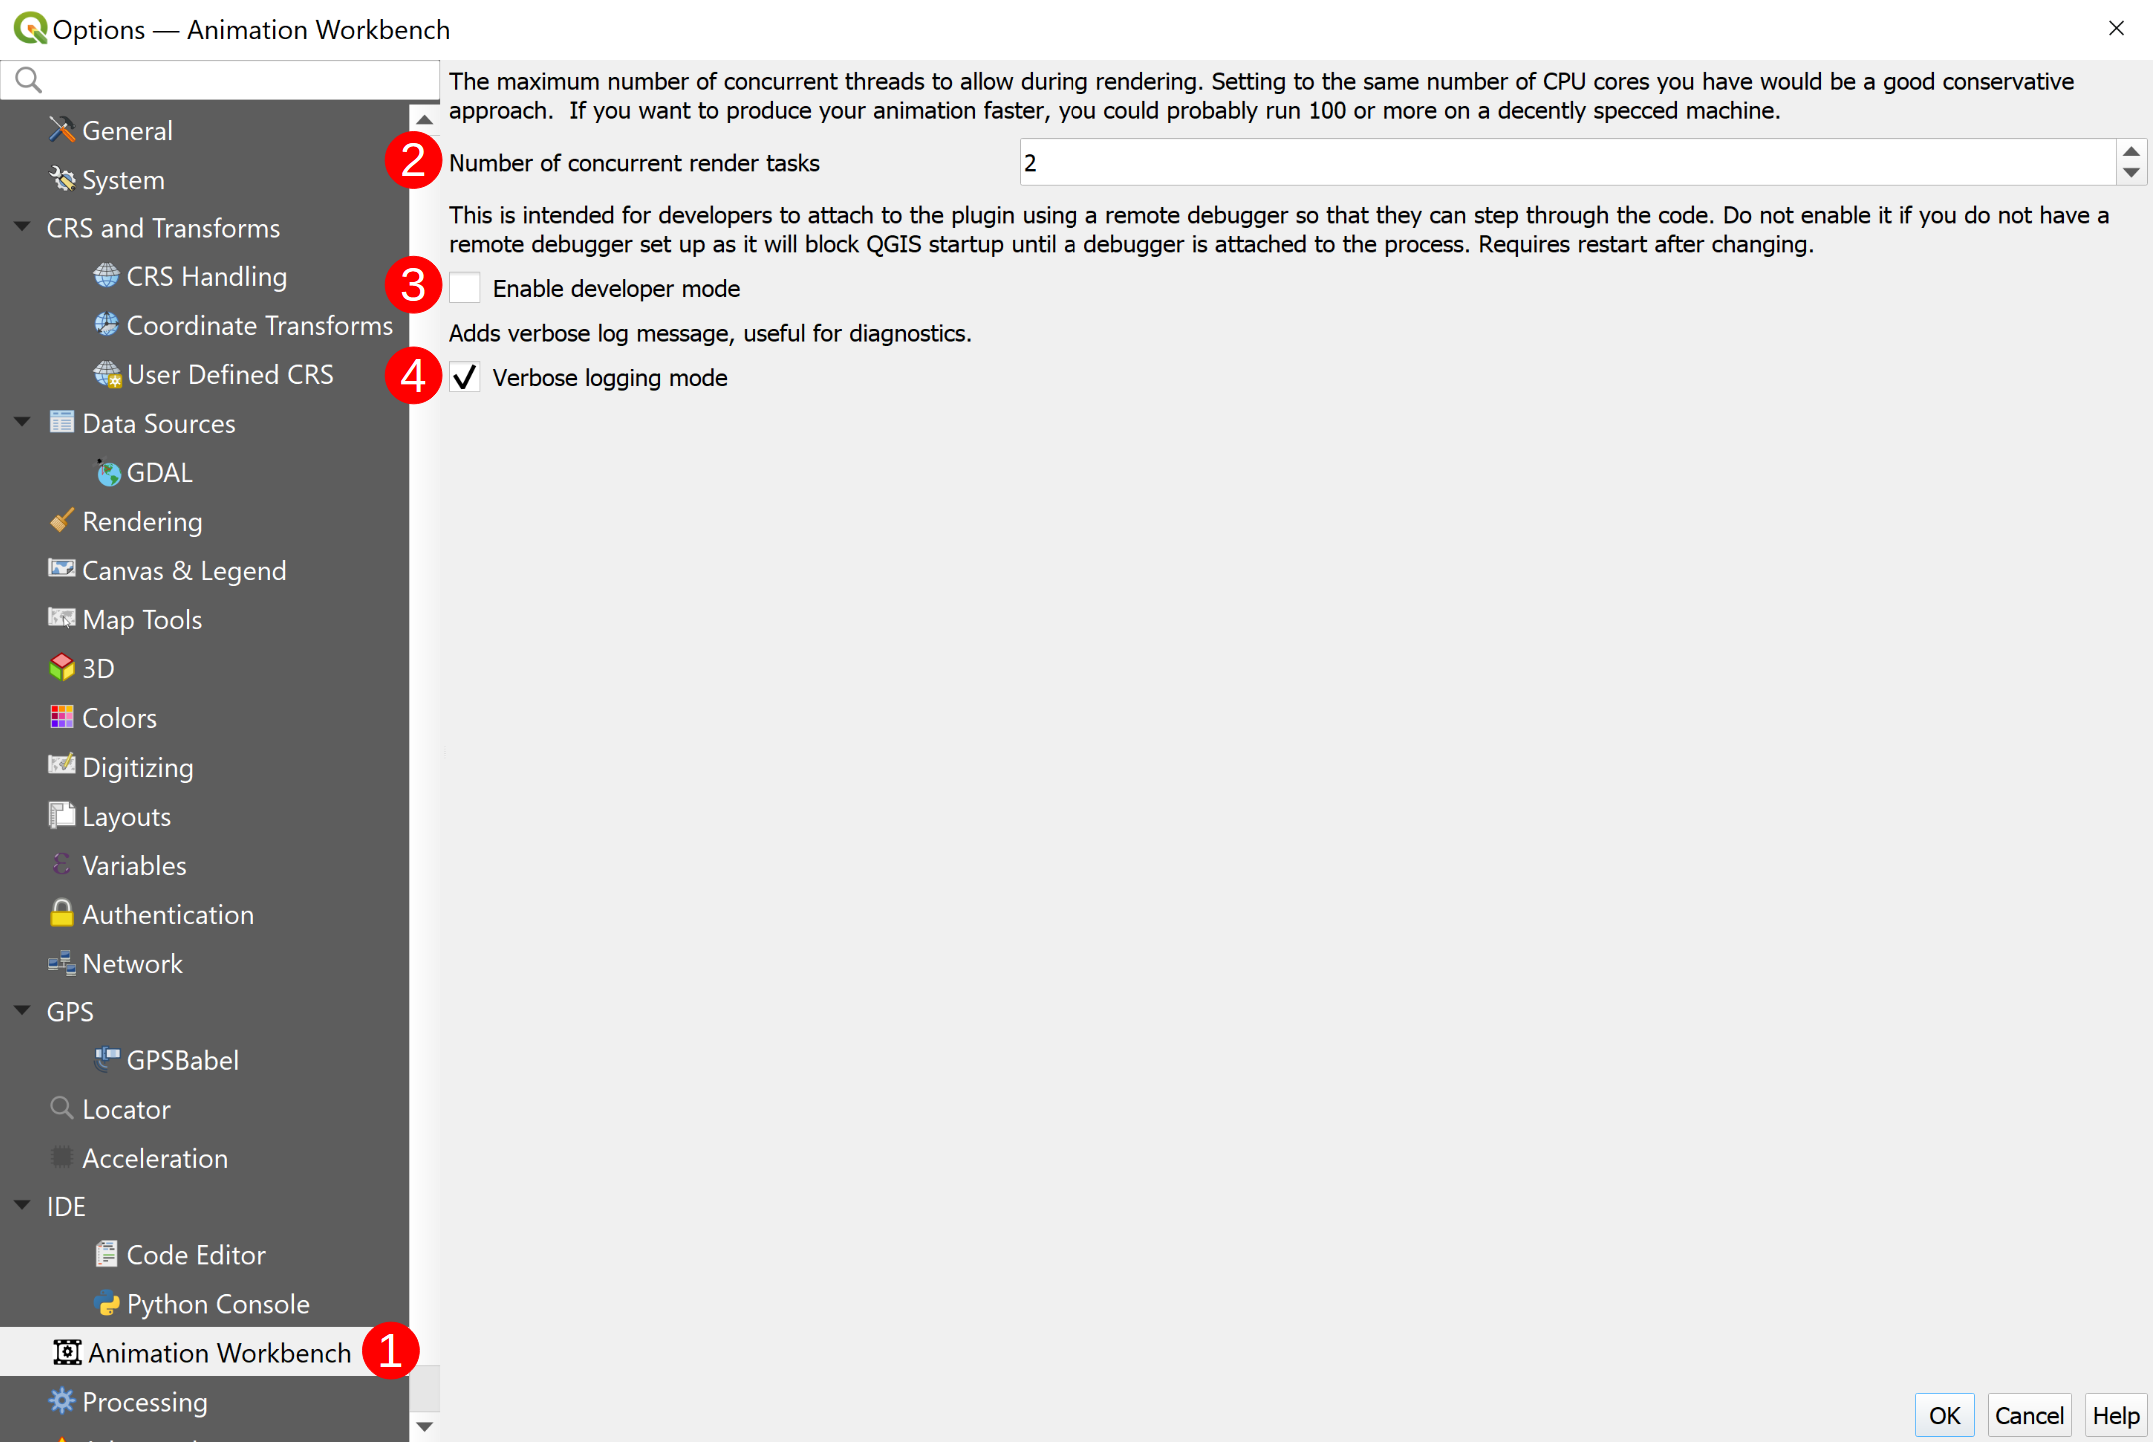
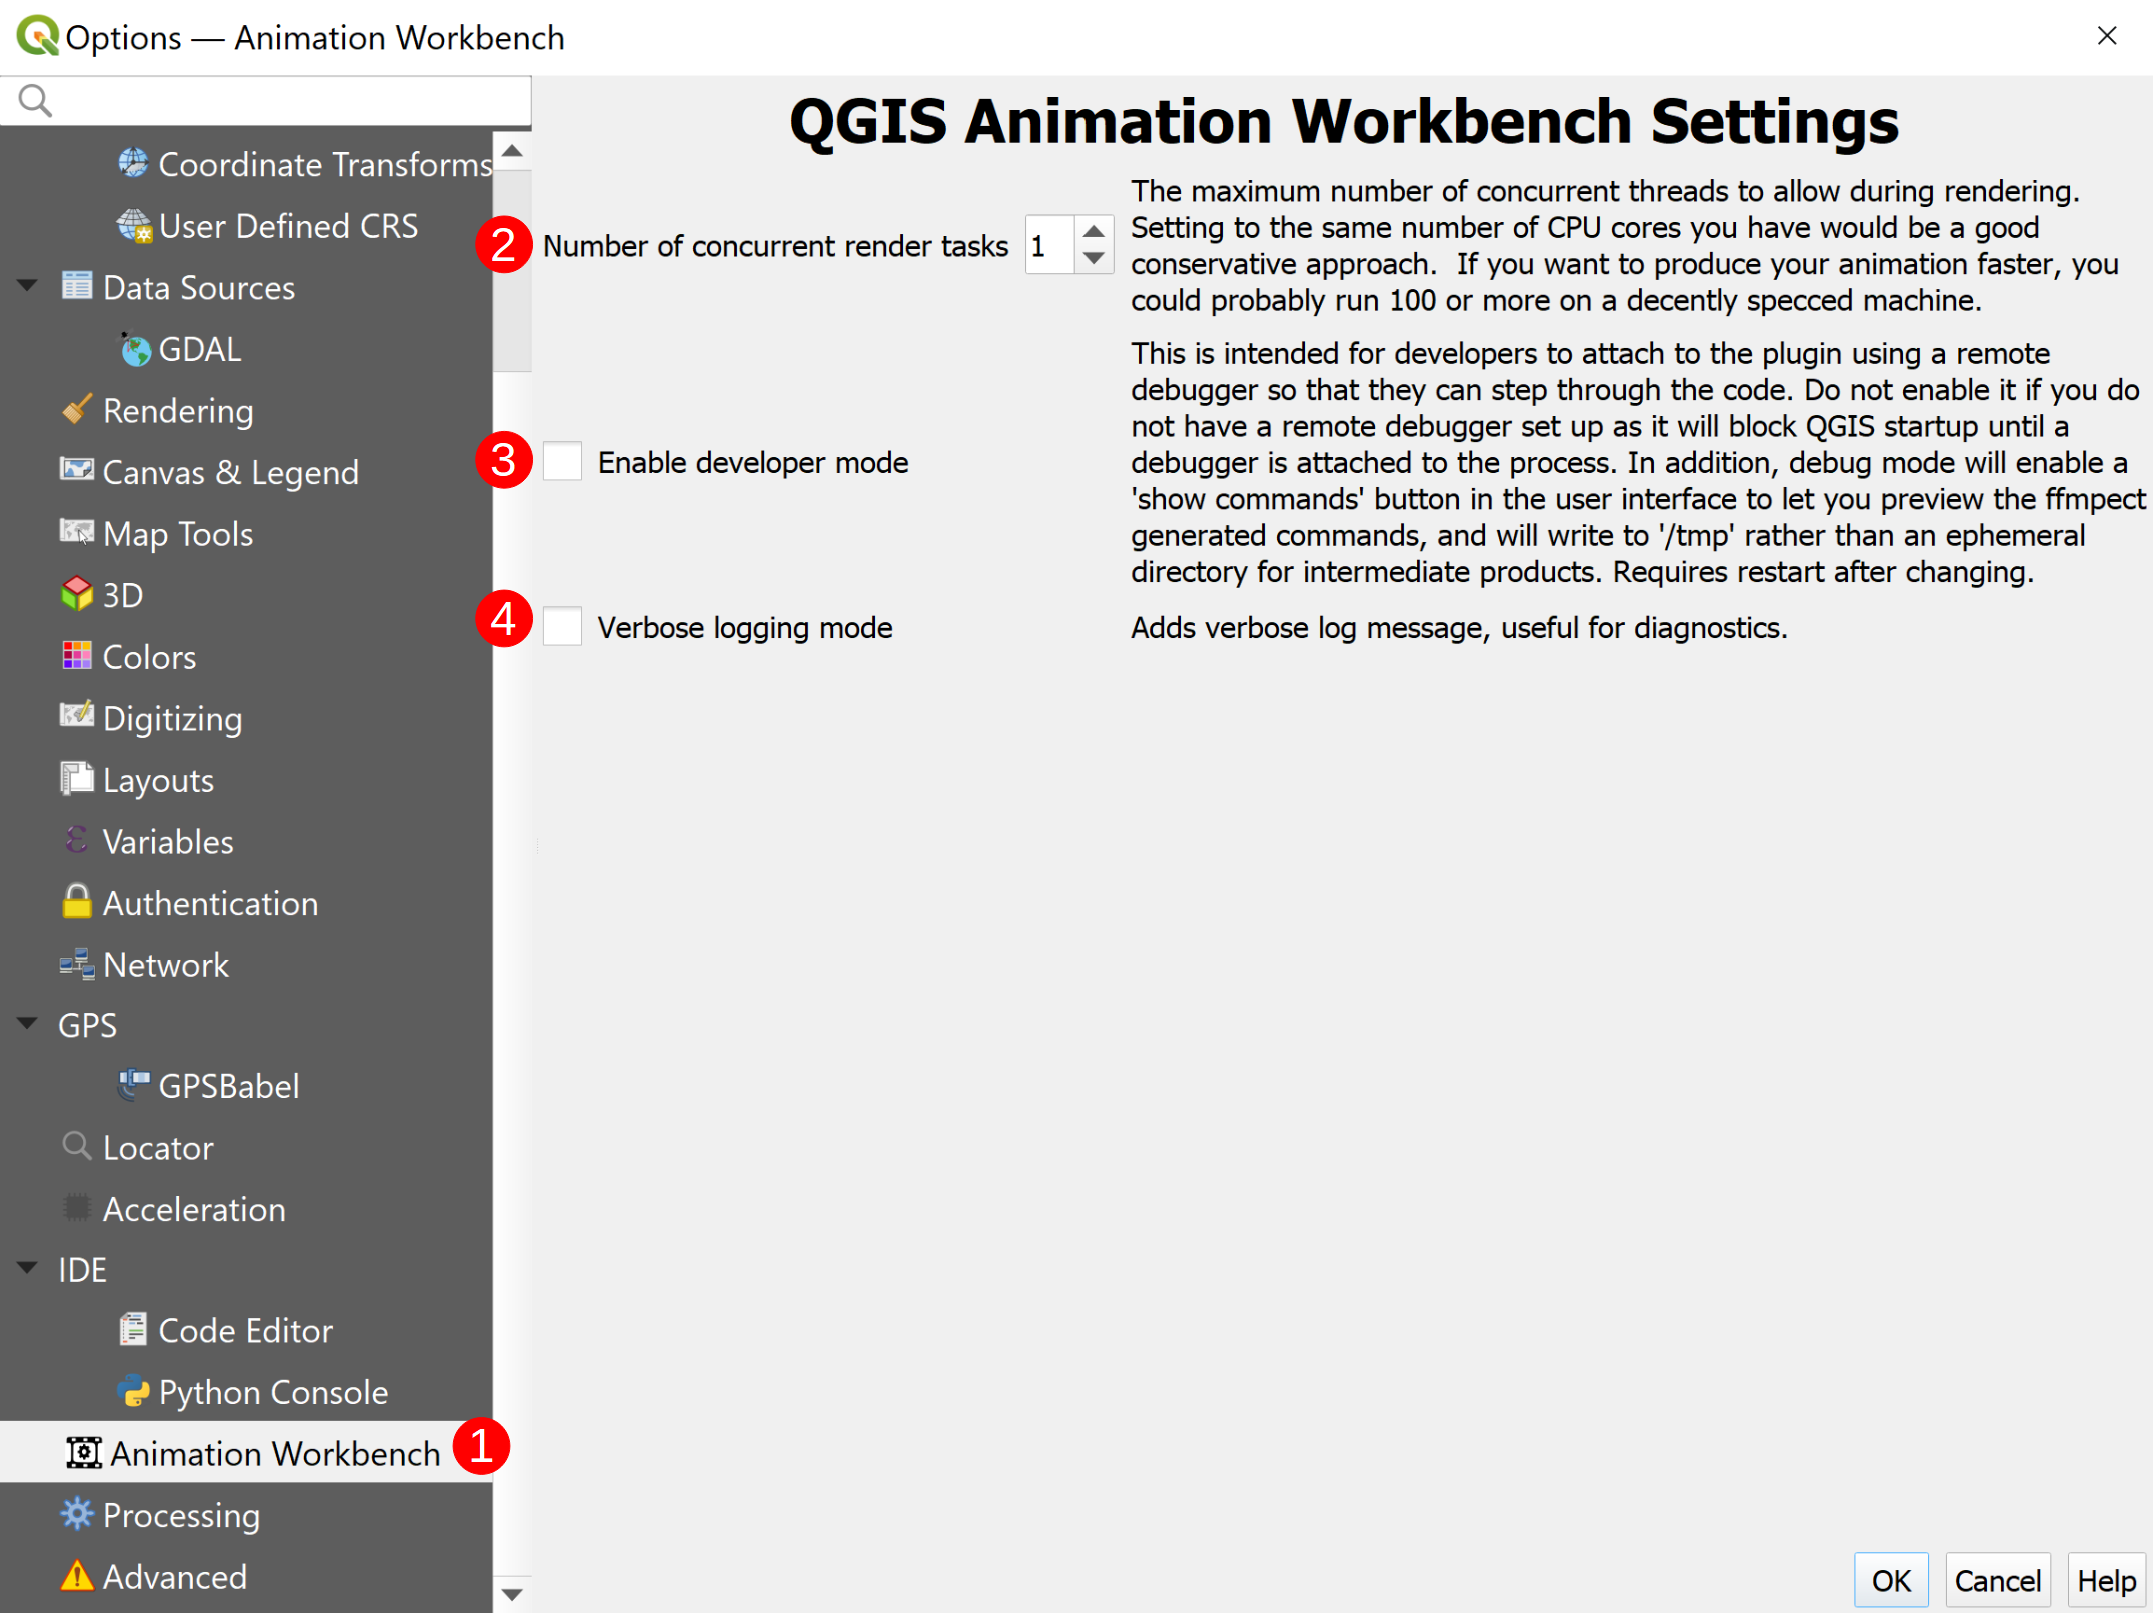
📝 configure: updated screenshot and text

Changed region(s): [[0.0, 0.0, 0.9954, 1.0], [0.8709, 0.9667, 1.0, 0.9979], [0.2799, 0.3742, 0.4044, 0.4054]]

diff --git a/docs/start/configure.md b/docs/start/configure.md
@@ -15,7 +15,7 @@ QGIS Setting dialog and clicking on the animation workbench tab.
 Currently there are just three configuration options:
 
 - **Number of concurrent render tasks (`2`):** This is the number of concurrent tasks
-that will be used to render animations. The default is 10.
+that will be used to render animations. The default is 1.
 - **Enable developer mode (`3`):** This is a developer option that enables the developers
 to see an icon in the toolbar which will start the debug remote server.
 - **Verbose logging mode (`4`):** This will add extra messages in the logging pane to
